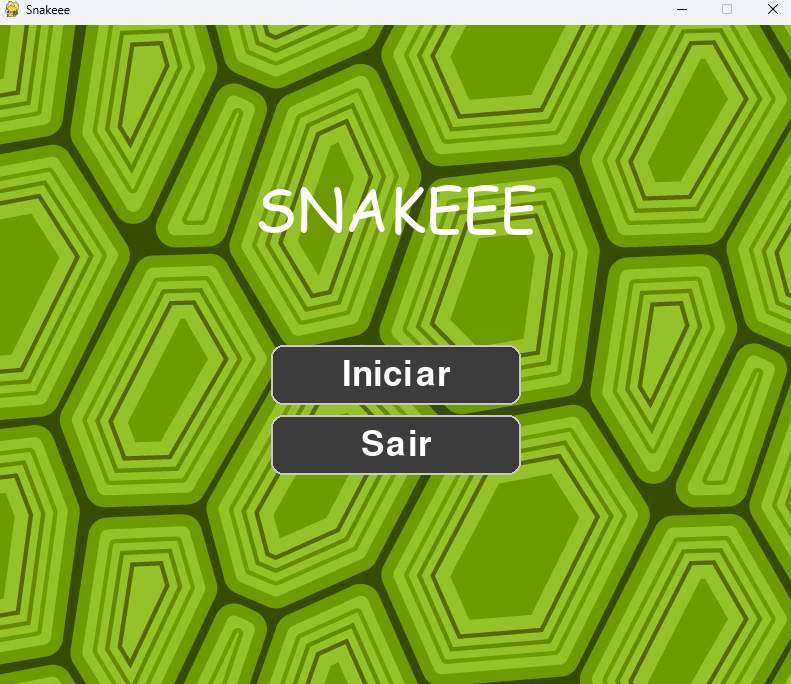
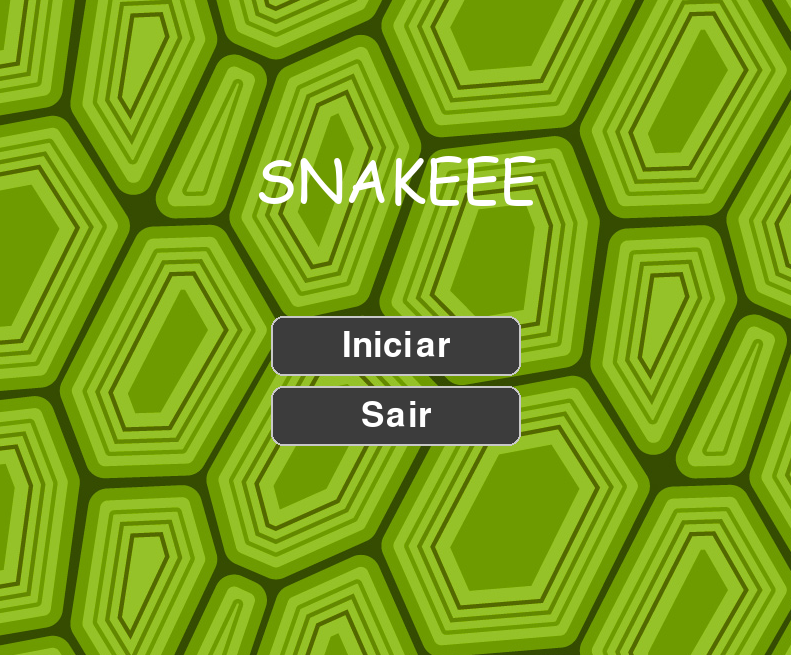
snake-game

diff --git a/README.md b/README.md
@@ -1,0 +1,65 @@
+# 🐍 Snake Game – Python + Pygame
+
+![Python](https://img.shields.io/badge/Python-3.10+-blue)
+![Pygame](https://img.shields.io/badge/Pygame-Library-green)
+![Status](https://img.shields.io/badge/Status-Finalizado-brightgreen)
+
+Este projeto é uma versão personalizada do clássico **Snake**, desenvolvida em **Python** com **Pygame** como parte do meu aprendizado em lógica de programação, matrizes, game loop e construção de interfaces interativas.
+
+---
+
+## 🚀 Funcionalidades
+
+- Menu inicial estilizado  
+- Seleção de dificuldade (Fácil / Média / Difícil)  
+- Fruta boa (aumenta o tamanho)  
+- Fruta ruim (reduz o tamanho ou causa derrota)  
+- Sistema de pontuação  
+- Tela de vitória  
+- Tela de Game Over  
+- Modo pause  
+- Botões interativos (iniciar, tentar novamente, sair)  
+- Sons, música de fundo e sprites personalizados  
+- Uso de matriz para renderização do tabuleiro  
+- Lógica completa da cobra criada manualmente  
+
+---
+
+## 🎮 Controles
+
+| Ação | Tecla |
+|------|-------|
+| Cima | **W** |
+| Baixo | **S** |
+| Esquerda | **A** |
+| Direita | **D** |
+| Pausar | **ESC** |
+
+---
+
+## 🧠 Conceitos Aplicados
+
+- Game loop com FPS  
+- Manipulação de eventos do teclado  
+- Estados do jogo:  
+  - MENU  
+  - MENU_DIFICULDADE  
+  - PREJOGO  
+  - JOGO  
+  - PAUSE  
+  - GAME_OVER  
+  - WINNER  
+- Matrizes para tabuleiro  
+- Sprites e imagens  
+- Regras de vitória e derrota  
+- Som ambiente e efeitos  
+
+---
+
+<h2>📸 Screenshots do Jogo</h2>
+
+<p>
+  <img src="screenshots/inicio.png" width="350" alt="Menu Inicial"><br>
+  <img src="./screenshots/jogo.png" width="350" alt="Tela de Dificuldade">
+</p>
+
